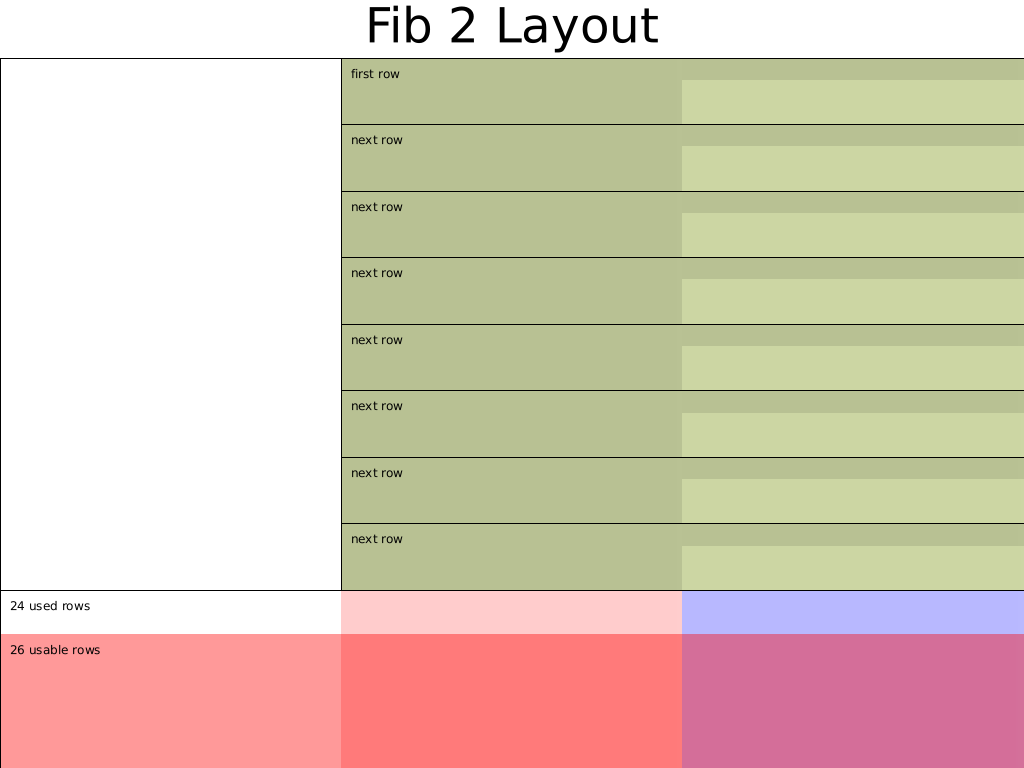
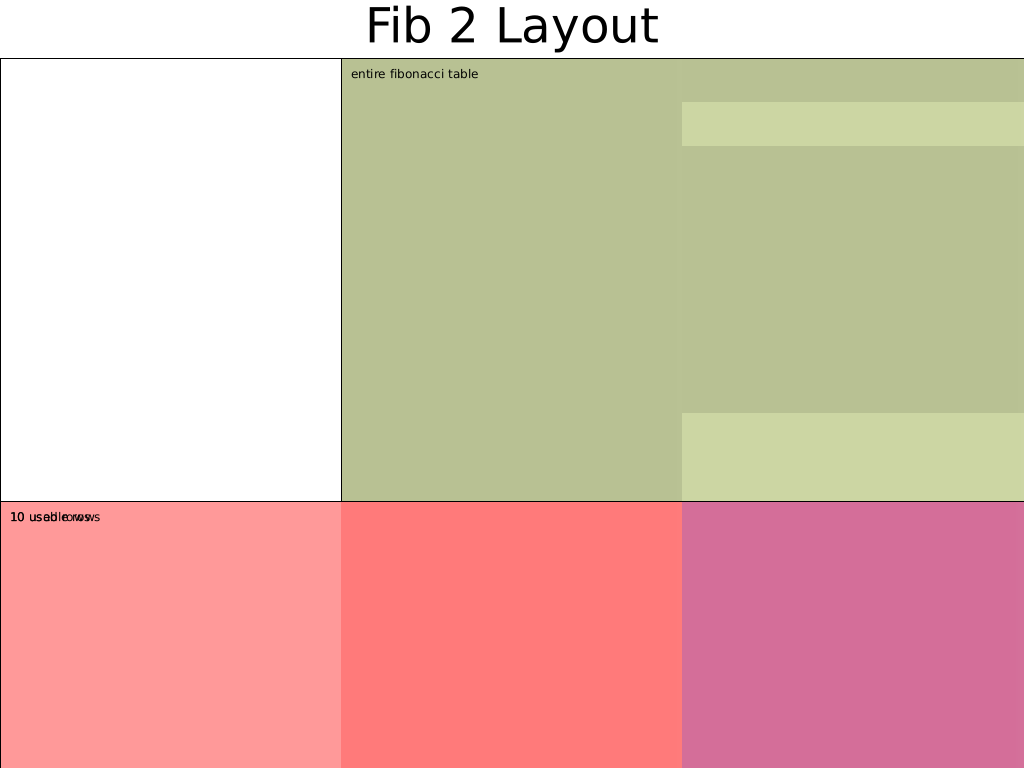
Update the fibonacci circuit v2 (more optimized)

diff --git a/src/example2.rs b/src/example2.rs
@@ -64,48 +64,33 @@ impl<F: FieldExt> FiboChip<F> {
         }
     }
 
-    pub fn assign_first_row(
+    pub fn assign(
         &self,
         mut layouter: impl Layouter<F>,
         a: Value<F>,
         b: Value<F>,
-    ) -> Result<(AssignedCell<F, F>, AssignedCell<F, F>, AssignedCell<F, F>), Error> {
+        nrows: usize,
+    ) -> Result<AssignedCell<F, F>, Error> {
         layouter.assign_region(
-            || "first row",
+            || "entire fibonacci table",
             |mut region| {
                 self.config.selector.enable(&mut region, 0)?;
+                let mut a_cell = region.assign_advice(|| "a", self.config.advice, 0, || a)?;
+                let mut b_cell = region.assign_advice(|| "b", self.config.advice, 1, || b)?;
 
-                let a_cell = region.assign_advice(|| "a", self.config.advice, 0, || a)?;
-                let b_cell = region.assign_advice(|| "b", self.config.advice, 1, || b)?;
-                let c_cell = region.assign_advice(|| "c", self.config.advice, 2, || a + b)?;
+                for row in 2..nrows {
+                    if row < nrows - 2 {
+                        self.config.selector.enable(&mut region, row)?;
+                    }
 
-                Ok((a_cell, b_cell, c_cell))
-            },
-        )
-    }
+                    let c_val = a_cell.value().copied() + b_cell.value().copied();
+                    let c_cell = region.assign_advice(|| "c", self.config.advice, row, || c_val)?;
 
-    pub fn assign_row(
-        &self,
-        mut layouter: impl Layouter<F>,
-        prev_b: AssignedCell<F, F>,
-        prev_c: AssignedCell<F, F>,
-    ) -> Result<(AssignedCell<F, F>, AssignedCell<F, F>), Error> {
-        layouter.assign_region(
-            || "next row",
-            |mut region| {
-                self.config.selector.enable(&mut region, 0)?;
+                    a_cell = b_cell;
+                    b_cell = c_cell;
+                }
 
-                let _a_cell = prev_b.copy_advice(|| "a", &mut region, self.config.advice, 0)?;
-                let b_cell = prev_c.copy_advice(|| "b", &mut region, self.config.advice, 1)?;
-
-                let c_cell = region.assign_advice(
-                    || "c",
-                    self.config.advice,
-                    2,
-                    || prev_b.value().copied() + prev_c.value().copied(),
-                )?;
-
-                Ok((b_cell, c_cell))
+                Ok(b_cell)
             },
         )
     }
@@ -149,27 +134,21 @@ impl<F: FieldExt> Circuit<F> for FiboCircuit<F> {
     ) -> Result<(), Error> {
         let cs = FiboChip::construct(config);
 
-        let (_, mut prev_b, mut prev_c) =
-            cs.assign_first_row(layouter.namespace(|| "first row"), self.a, self.b)?;
+        let last_cell = cs.assign(
+            layouter.namespace(|| "assign entire table"),
+            self.a,
+            self.b,
+            10,
+        )?;
 
-        for _ in 3..10 {
-            let (b, c) = cs.assign_row(
-                layouter.namespace(|| "next row"),
-                prev_b.clone(),
-                prev_c.clone(),
-            )?;
-            prev_b = b;
-            prev_c = c;
-        }
-
-        cs.expose_public(layouter.namespace(|| "expose public"), prev_c, 0)?;
+        cs.expose_public(layouter.namespace(|| "expose public"), last_cell, 0)?;
 
         Ok(())
     }
 }
 
 fn main() {
-    let k = 5;
+    let k = 4;
 
     let fibo_circuit = FiboCircuit {
         a: Value::known(Fp::from(1)),
